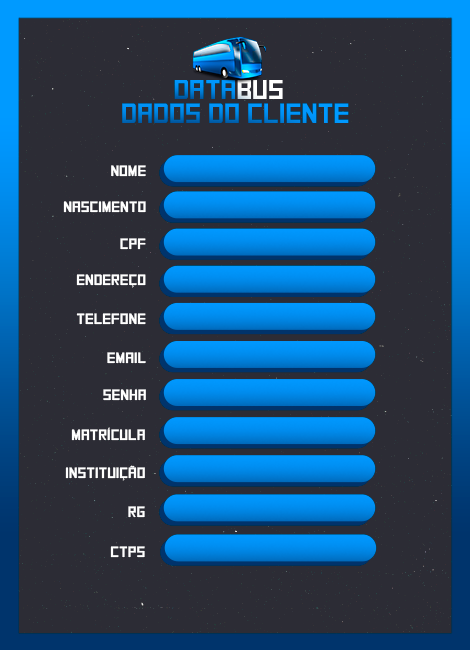
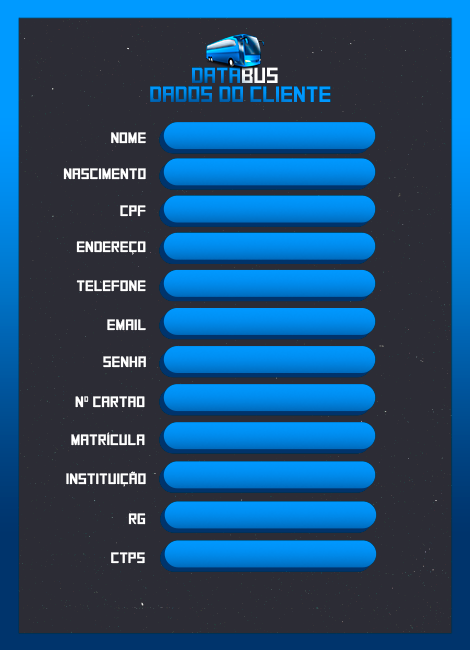
numero cartao tabela

Changed region(s): [[0.1191, 0.0308, 0.8043, 0.8923]]

diff --git a/controller/ScreenController.java b/controller/ScreenController.java
@@ -166,6 +166,8 @@ public class ScreenController implements Initializable {
   private Label consultaSenha;
   @FXML
   private Label consultaTelefone;
+  @FXML
+  private Label consultaCartao;
 
   private Cliente estudante;
   private boolean emailFlag = false;
@@ -364,6 +366,8 @@ public class ScreenController implements Initializable {
     groupConsultaDados.setDisable(true);
     grupoRotas.setVisible(false);
     grupoRotas.setDisable(true);
+    //botaoVoltar.setDisable(true);
+    //botaoVoltar.setVisible(false);
   }
 
   public void clearText() {
